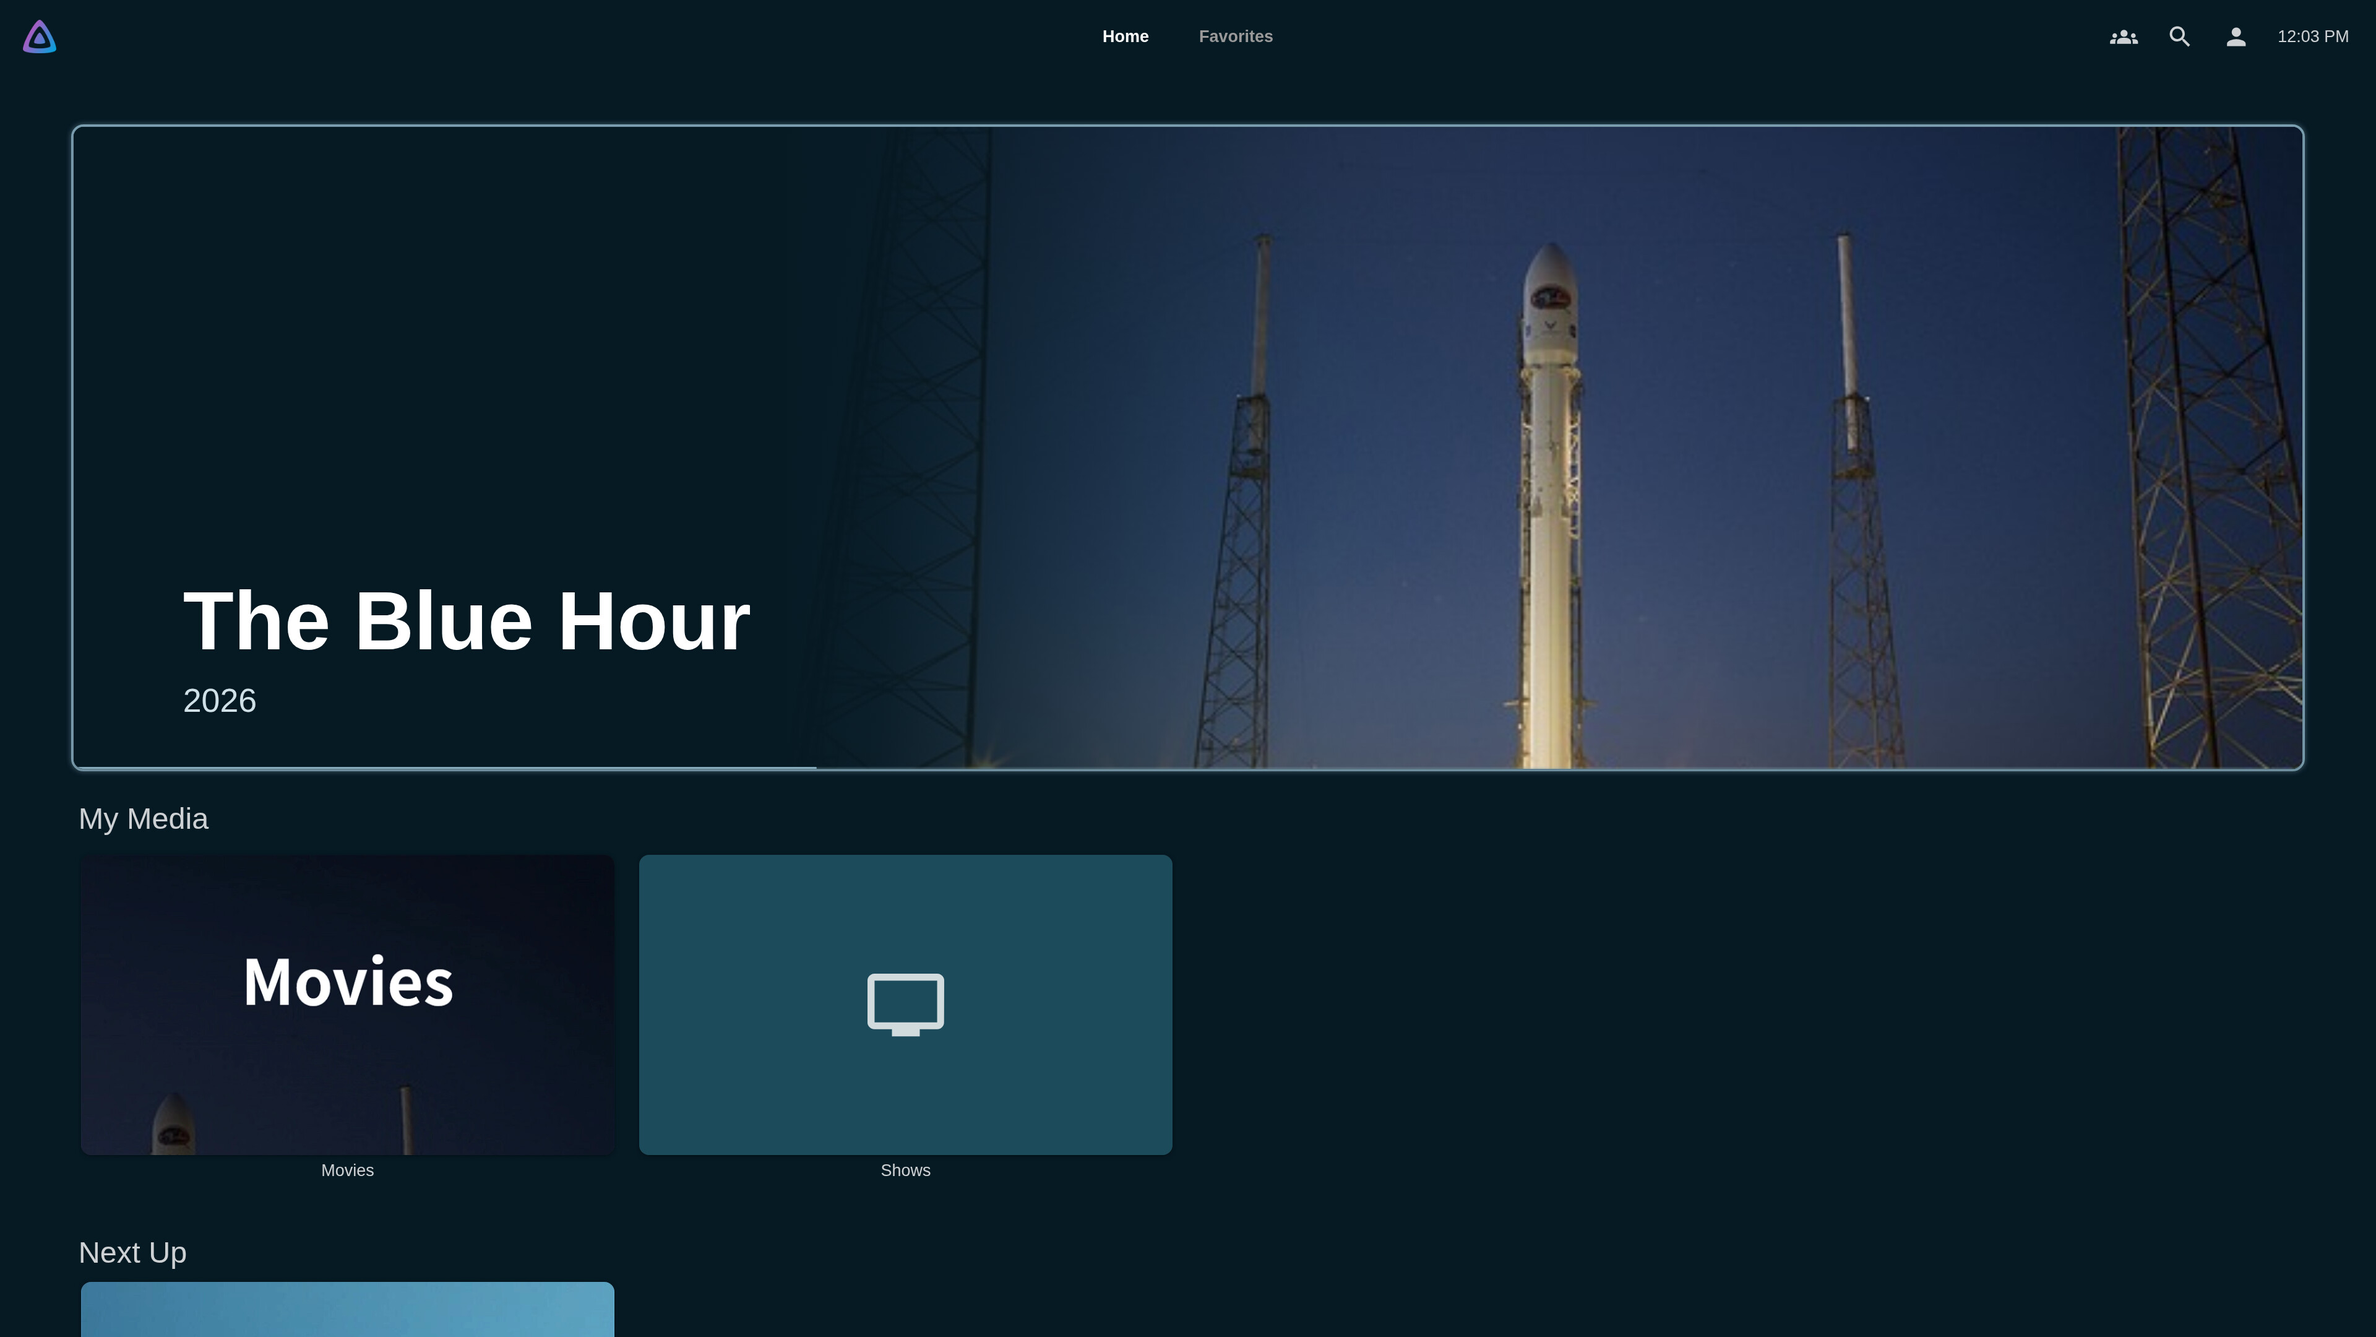
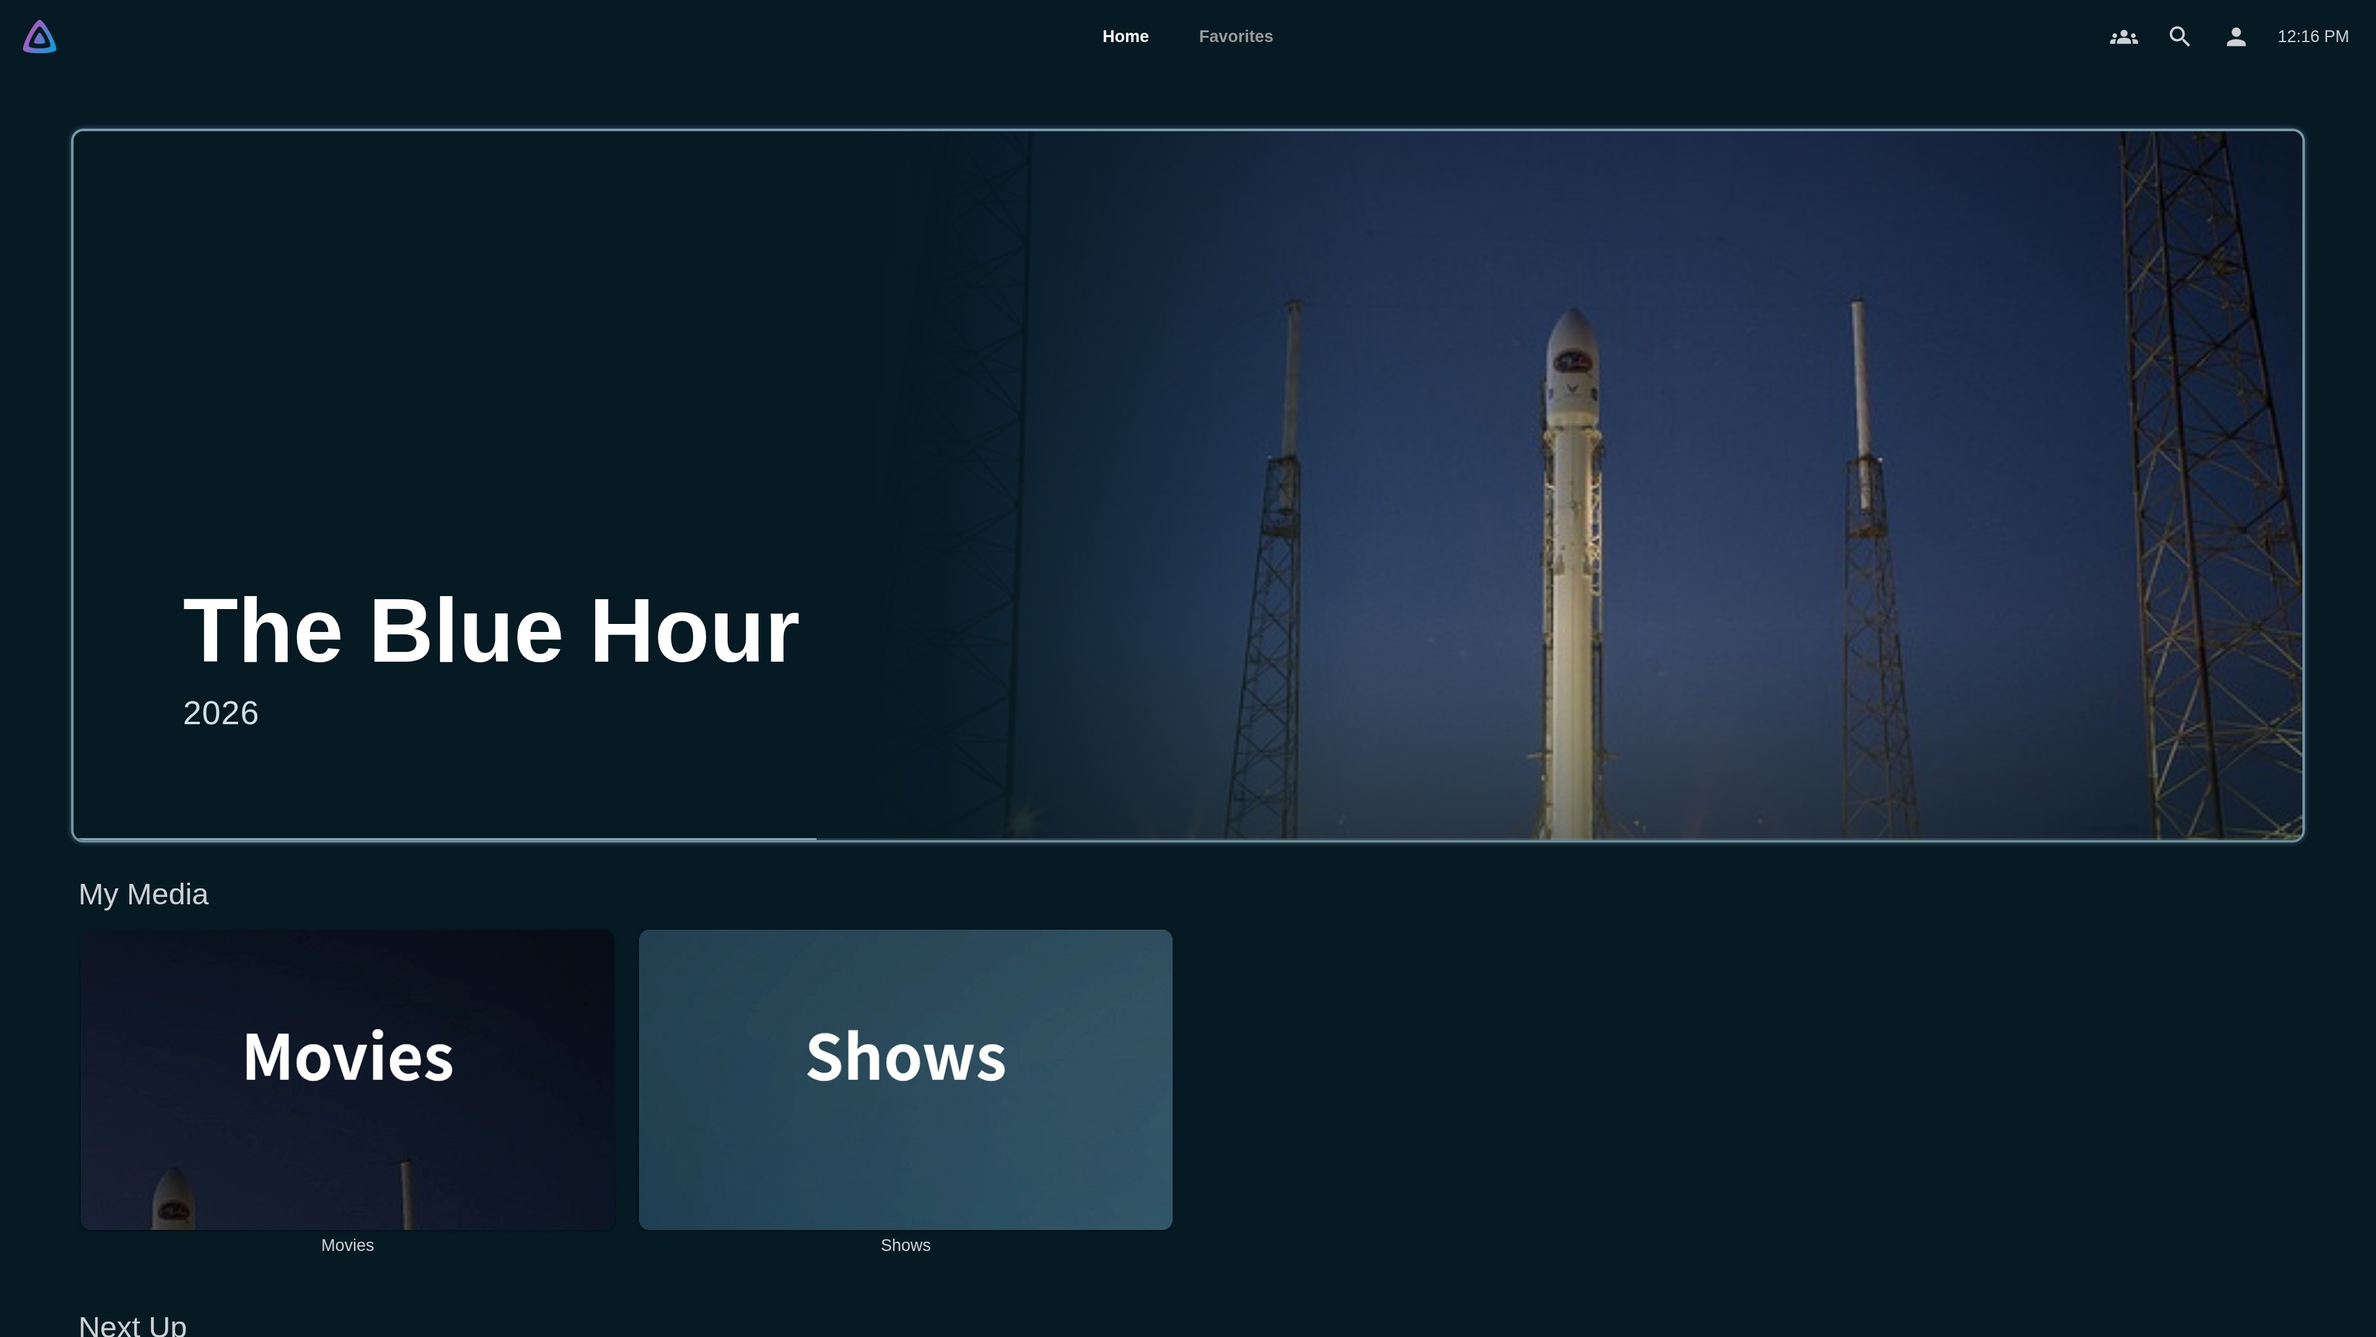
Page featured cards by Jellyfin's scroll frame width

diff --git a/featured-banner.css b/featured-banner.css
@@ -15,8 +15,11 @@
     clip: rect(0, 0, 0, 0);
 }
 
+/* Arrow destinations use the outer item's offsetWidth. One slot fills the
+   slider, including when Home occupies only part of the window. */
 #homeTab .section0 > h2 ~ .emby-scroller [data-monitor="videoplayback,markplayed"] > .overflowBackdropCard {
-    width: 100vw;
+    width: 100%;
+    flex: 0 0 100%;
 }
 
 /* Keep the scroller measurable while Jellyfin fetches the first shelf.
@@ -30,24 +33,52 @@
     visibility: hidden;
 }
 
-/* Equal gutters keep adjacent panels outside the viewport at rest. */
+/* Keep the frame and item on the same coordinate system. Safe-area
+   spacing belongs inside the measured slot, on the painted panel. */
+#homeTab .section0 > h2 ~ .emby-scroller:has([data-monitor="videoplayback,markplayed"]) {
+    --jf-featured-gutter: 3%;
+    padding-left: 0;
+    padding-right: 0;
+}
+
+/* Jellyfin indexes with integer offsetWidth, including on the trip back
+   from the last card. Avoid fractional drift in percentage-width panes. */
+#homeTab .section0 > h2 ~ .emby-scroller [data-monitor="videoplayback,markplayed"] {
+    width: 100%;
+    width: round(nearest, 100%, 1px);
+}
+
 #homeTab .section0 > h2 ~ .emby-scroller [data-monitor="videoplayback,markplayed"] > .overflowBackdropCard > .cardBox {
     position: relative;
-    width: 94%;
-    margin: 0.75em auto !important;
+    /* Older engines retain frame padding. Allow for it at each edge. */
+    margin: 1em 4% !important;
+    margin: 1em var(--jf-featured-gutter, 4%) !important;
+    margin-left: max(var(--jf-featured-gutter, 4%), env(safe-area-inset-left)) !important;
+    margin-right: max(var(--jf-featured-gutter, 4%), env(safe-area-inset-right)) !important;
 }
 
-/* Desktop arrows and touch start at Jellyfin's own safe-area inset.
-   TV focus centers the slot and uses the equal margins above. */
-.layout-desktop #homeTab .section0 > h2 ~ .emby-scroller [data-monitor="videoplayback,markplayed"] > .overflowBackdropCard > .cardBox,
-.layout-mobile #homeTab .section0 > h2 ~ .emby-scroller [data-monitor="videoplayback,markplayed"] > .overflowBackdropCard > .cardBox {
-    margin-left: 0 !important;
+/* Reserve a row for the existing desktop buttons. An empty shelf gets
+   neither the row nor new controls. */
+#homeTab .section0 > h2 ~ .emby-scrollbuttons:has(+ .emby-scroller [data-monitor="videoplayback,markplayed"] > .overflowBackdropCard) {
+    position: relative;
+    justify-content: flex-end;
+    padding-top: 0.65em;
+    padding-bottom: 0.2em;
 }
 
-[dir="rtl"].layout-desktop #homeTab .section0 > h2 ~ .emby-scroller [data-monitor="videoplayback,markplayed"] > .overflowBackdropCard > .cardBox,
-[dir="rtl"].layout-mobile #homeTab .section0 > h2 ~ .emby-scroller [data-monitor="videoplayback,markplayed"] > .overflowBackdropCard > .cardBox {
-    margin-left: auto !important;
-    margin-right: 0 !important;
+#homeTab .section0 > h2 ~ .emby-scrollbuttons:has(+ .emby-scroller [data-monitor="videoplayback,markplayed"] > .overflowBackdropCard) .emby-scrollbuttons-button {
+    width: 2.7em;
+    height: 2.7em;
+    margin: 0 0.2em;
+    padding: 0;
+    color: #edf5f9;
+    background-color: rgba(22, 46, 60, 0.88);
+    border: 1px solid rgba(131, 169, 187, 0.5);
+    border-radius: 50%;
+}
+
+#homeTab .section0 > h2 ~ .emby-scrollbuttons:has(+ .emby-scroller [data-monitor="videoplayback,markplayed"] > .overflowBackdropCard) .emby-scrollbuttons-button:disabled {
+    opacity: 0.45;
 }
 
 #homeTab .section0 > h2 ~ .emby-scroller [data-monitor="videoplayback,markplayed"] > .overflowBackdropCard .cardPadder-overflowBackdrop {
@@ -77,13 +108,14 @@
 
 @media (orientation: landscape) {
     #homeTab .section0 > h2 ~ .emby-scroller [data-monitor="videoplayback,markplayed"] > .overflowBackdropCard .cardPadder-overflowBackdrop {
-        height: 48vh;
+        height: 53vh;
         min-height: 8.5rem;
         padding-bottom: 0;
     }
 
     #homeTab .section0 > h2 ~ .emby-scroller [data-monitor="videoplayback,markplayed"] > .overflowBackdropCard .cardContent.cardImageContainer::before {
-        width: 68%;
+        width: 66%;
+        background-position: center 42%;
         background-size: cover;
     }
 }
@@ -97,8 +129,9 @@
     left: 0;
     border-radius: inherit;
     pointer-events: none;
-    background: linear-gradient(90deg, #061a24 31%, rgba(6,26,36,.94) 36%,
-        rgba(6,26,36,.62) 45%, rgba(6,26,36,.2) 56%, rgba(6,26,36,0) 68%);
+    background: linear-gradient(0deg, rgba(6,26,36,.50), rgba(6,26,36,0) 30%),
+        linear-gradient(90deg, #061a24 35%, rgba(6,26,36,.96) 39%,
+            rgba(6,26,36,.68) 47%, rgba(6,26,36,.22) 58%, rgba(6,26,36,0) 72%);
 }
 
 #homeTab .section0 > h2 ~ .emby-scroller [data-monitor="videoplayback,markplayed"] > .overflowBackdropCard .itemProgressBar {
@@ -139,19 +172,21 @@
     position: absolute;
     left: 5%;
     right: 49%;
-    bottom: 1.5em;
+    bottom: 15%;
     padding: 0;
     text-align: left !important;
-    font-size: 1em;
-    line-height: 1.25;
+    font-size: 1.12em;
+    letter-spacing: 0.02em;
+    line-height: 1.35;
     color: #d0e0e7;
     text-shadow: 0 1px 3px #061a24;
     pointer-events: none;
 }
 
 #homeTab .section0 > h2 ~ .emby-scroller [data-monitor="videoplayback,markplayed"] > .overflowBackdropCard > .cardBox > .cardText-first {
-    bottom: 3.1rem;
-    font-size: 2.5rem;
+    bottom: calc(15% + 2rem);
+    letter-spacing: normal;
+    font-size: 2.9rem;
     font-weight: 700;
     line-height: 1.1;
     color: #fff;
@@ -168,8 +203,8 @@
     }
 
     #homeTab .section0 > h2 ~ .emby-scroller [data-monitor="videoplayback,markplayed"] > .overflowBackdropCard > .cardBox > .cardText-first {
-        bottom: 4.4vw;
-        font-size: 3.5vw;
+        bottom: calc(15% + 2.3vw);
+        font-size: 3.8vw;
     }
 }
 
@@ -182,7 +217,7 @@
 @media (max-width: 47.99em), (max-height: 24.99em) {
     #homeTab .section0 > h2 ~ .emby-scroller [data-monitor="videoplayback,markplayed"] > .overflowBackdropCard > .cardBox > .cardText-first {
         font-size: 1.6rem;
-        bottom: 2.85rem;
+        bottom: calc(15% + 1.75rem);
     }
 }
 

diff --git a/README.md b/README.md
@@ -30,11 +30,15 @@ A dark navy theme for Jellyfin Web and the Samsung TV client, with an optional c
 2. In the viewing account’s **Settings → Home**, set **Home screen section 1** to **Continue Watching**. Move **My Media** or **My Media (small)** to another slot, replacing the old Continue Watching entry. TV layout can prepend a library shelf when both My Media variants are absent.
 3. Save and reopen Home with a partially watched video. The first slot now shows wide, individually selectable panels. Use Left and Right to browse or Down to reach the next shelf.
 
-The module uses the thumbnail or backdrop Jellyfin already chose, along with its title, secondary line and progress bar. For an episode, the two lines can be the series and episode names. The card builder requests a thumbnail-sized image based on the number of cards Jellyfin would normally display. The loader transfers that single URL from `data-src` to the card’s background. In the 1080p TV test, the loaded image measured 447 × 299 pixels. The card exposed no second, higher-resolution source. In landscape, the artwork fills the right 68% of the banner. It scales proportionally and crops at the edges to fill the frame. A horizontal navy gradient blends it into the title area on the left. Image quality depends on the asset Jellyfin delivers. [Card image selection](https://github.com/jellyfin/jellyfin-web/blob/v10.11.11/src/components/cardbuilder/cardBuilder.js) · [Image loader](https://github.com/jellyfin/jellyfin-web/blob/v10.11.11/src/components/images/imageLoader.js)
+The module uses the thumbnail or backdrop Jellyfin already chose, along with its title, secondary line and progress bar. For an episode, the two lines can be the series and episode names. The card builder requests a thumbnail-sized image based on the number of cards Jellyfin would normally display. The loader transfers that single URL from `data-src` to the card’s background. In the 1080p TV test, the loaded image measured 447 × 299 pixels. The card exposed no second, higher-resolution source. In landscape, the artwork fills the right 66% of the banner. It scales proportionally and crops at the edges to fill the frame. An opaque navy stop extends past the artwork’s left edge before fading into the image. A lighter bottom gradient keeps the progress line visible. Image quality depends on the asset Jellyfin delivers. [Card image selection](https://github.com/jellyfin/jellyfin-web/blob/v10.11.11/src/components/cardbuilder/cardBuilder.js) · [Image loader](https://github.com/jellyfin/jellyfin-web/blob/v10.11.11/src/components/images/imageLoader.js)
 
-Landscape panels use 94% of viewport width and 48% of viewport height. Portrait layouts use Jellyfin’s 16:9 frame. Each card occupies a full viewport-width slot so the next panel stays offscreen when focused. The progress line is 3 px high. A static navy gradient and subtle shadow sit inside the existing TV focus treatment.
+Landscape panels use approximately 94% of the available shelf width and 53% of viewport height. Portrait layouts keep Jellyfin’s 16:9 frame. The lower-left caption sits above the 3 px progress line. Desktop users can page with the two native arrows above the artwork. TV users can move directly between panels with the directional pad.
 
-The Continue Watching heading is visually hidden on engines that support CSS `:has()`. Older engines keep the heading because it shares its markup with My Media and only the following scroller identifies the video resume shelf. Horizontal navigation uses Jellyfin’s own controls on both.
+### How banner paging works
+
+Jellyfin calculates the next card index by rounding down `(scroll position + frame width) / outer card width`. With the earlier `100vw` slot, a 1,329 px frame inside a 1,601 px viewport produced index zero on the first Next click. Changing the inner `.cardBox` width or its margins did not change that calculation. Jellyfin also subtracts scroller padding when deciding whether an end button should be disabled. [Arrow destination calculation](https://github.com/jellyfin/jellyfin-web/blob/v10.11.11/src/elements/emby-scrollbuttons/utils.ts) · [Button state and padding](https://github.com/jellyfin/jellyfin-web/blob/v10.11.11/src/elements/emby-scrollbuttons/emby-scrollbuttons.js)
+
+Each outer card now fills one slider width. Where supported, the banner moves the safe-area gutters inside that slot and rounds the slider width to a CSS pixel to match Jellyfin’s integer measurements. This keeps Previous aligned when returning from the last card. Engines without CSS `:has()` retain Jellyfin’s frame padding, visible heading and native arrow styling. Engines without CSS `round()` use the percentage width.
 
 ## Gallery
 
@@ -68,9 +72,11 @@ The base stylesheet now applies navy to the shared background only while Jellyfi
 
 | Check | Result |
 | --- | --- |
-| TV layout in Chromium, Web 10.10.7 and 10.11.11 | At 1920 × 1080 the banner interior measured 518 px high. Arrow keys moved across panels, down to My Media and back up. Enter opened details and Escape returned to Home. The focused ring measured 4 px with a 20 px radius. |
-| Single-panel navigation, Web 10.11.11 | At 1920 × 1080 and 3840 × 2160, all three test panels were individually visible after navigating with TV directional keys and desktop scroll arrows. [4K TV layout screenshot](screenshots/featured-banner-4k.jpg) |
-| Desktop and mobile, Web 10.11.11 | At 1440 × 900 the banner measured 432 px high. At 390 × 844 it measured 367 × 206 px. Both showed the native title, progress and play action. |
+| TV layout in Chromium, Web 10.10.7 and 10.11.11 | At 1920 × 1080 the banner interior measured 572 px high. Arrow keys moved across panels, down to My Media and back up. Enter opened details and Escape returned to Home. The focused ring measured 4 px with a 20 px radius. |
+| Desktop arrows, Web 10.11.11 | Clicked Next and Previous through five distinct titles twice in both 1080p and 4K layouts. Each click showed exactly one expected title and changed the native scroll position. Previous was disabled at the first title and Next at the last. [Desktop arrows screenshot](screenshots/featured-banner-arrows.jpg) |
+| Narrow Home pane, Web 10.10.7 and 10.11.11 | In a 1,329 px frame, Next showed The Blue Hour (start, 0 px), Northern Passage (1,329), Whiteout (2,658), After Sunrise (3,987) and Above the Timberline (5,316). Previous retraced all four positions to zero. Both round trips matched. |
+| TV layout, Web 10.11.11 | Repeated the five-title round trips with directional keys at 1920 × 1080 and 3840 × 2160. A separate 1080p run exercised the percentage-width and native-padding fallback. [4K TV screenshot](screenshots/featured-banner-4k.jpg) |
+| Desktop and mobile, Web 10.11.11 | At 1440 × 900 the banner measured 477 px high. At 390 × 844 it measured 367 × 206 px. Both showed the native title, progress and play action. |
 | Other Home shelves, Web 10.11.11 | My Media, Next Up and both Recently Added shelves retained the same measured card dimensions and corner radii with the module enabled and disabled. Putting My Media or Next Up first produced zero banner matches. An empty Continue Watching list reserved no banner space. |
 | Browsing, Web 10.11.11 | Opened the navigation drawer, movie and series detail pages, Home settings and the admin dashboard. |
 | Browser playback, Web 10.11.11 | A local video resumed with the shared background transparent. With test Intro and Outro metadata supplied to the browser, both native skip prompts appeared and sought to the expected timestamps. |
@@ -80,8 +86,8 @@ Physical Samsung hardware, the Tizen video plane and model-specific remote behav
 ### Test on a Samsung TV
 
 1. Note the TV model/year, Tizen version, Jellyfin app and server versions. Install the two stylesheets, enable server-provided Custom CSS on the client and set the Home slots as described above.
-2. Resume two videos briefly and return to Home. Check a bright thumbnail, a long title and an episode. Confirm the title and progress bar are readable and the entire rounded focus ring is visible.
-3. Use the directional pad across the whole shelf, down to the next row and back up. Press OK on a panel, then Back. Check that navigation reaches each card and focus returns to Home.
+2. Open Home with at least five distinct resumable titles. Check a bright thumbnail, a long title and an episode. Confirm the title and progress bar are readable and the entire rounded focus ring is visible.
+3. Press Right to the last title and Left back to the first twice. Check each press advances one title. Move down to the next row and back up. Press OK on a panel, then Back. Check that navigation reaches each card and focus returns to Home.
 4. Start or resume a video. Open and dismiss the playback controls, seek and pause. Verify the picture stays visible. On a title with Intro and Outro segments and prompts enabled, activate both skip buttons.
 5. Visit movie and series details, Next Up, Recently Added, the navigation menu, settings and the admin dashboard. Move Continue Watching out of slot 1 and check the standard shelves return. Repeat with an account that has nothing to resume.
 
